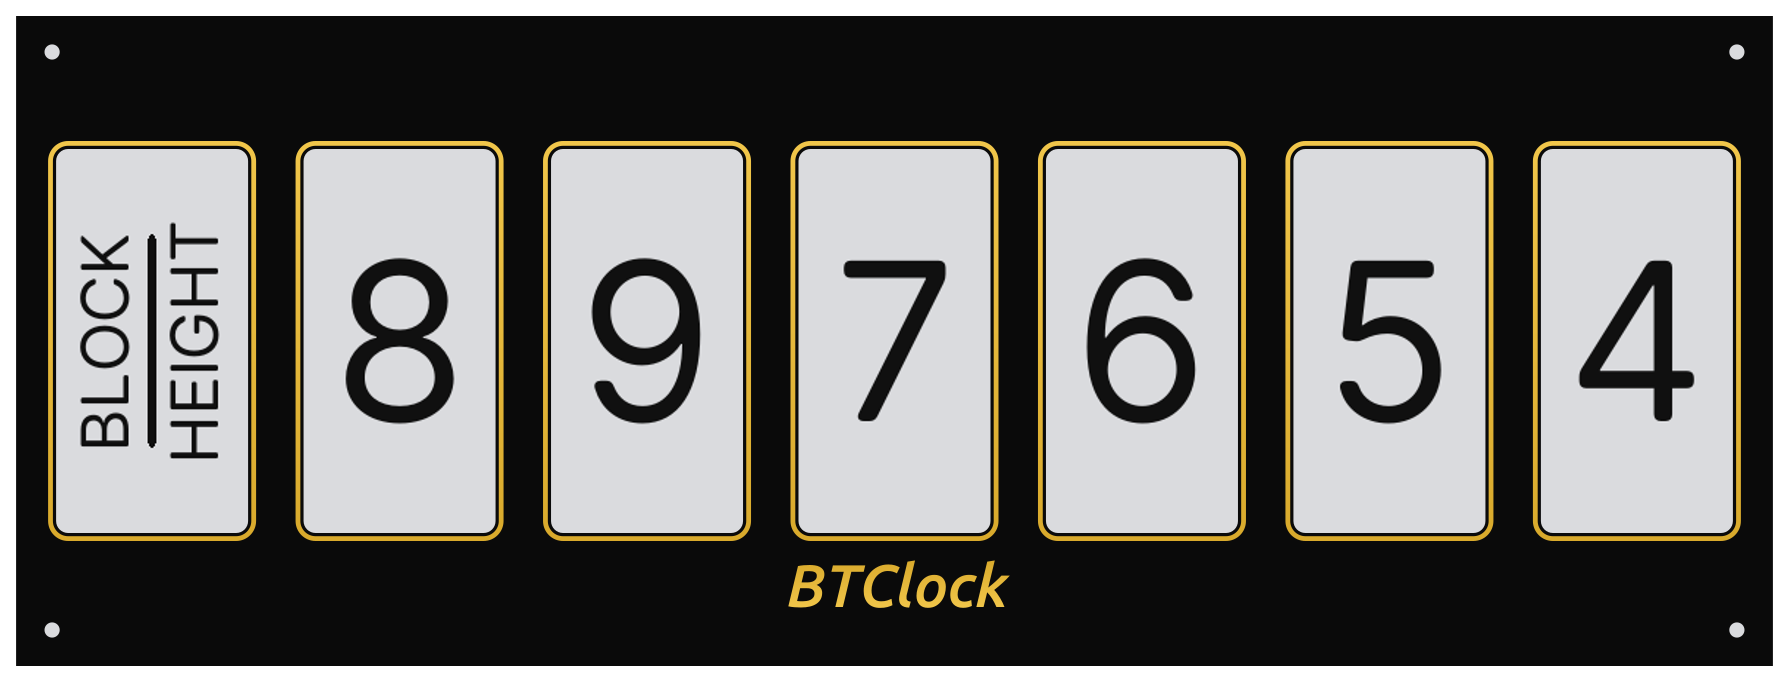
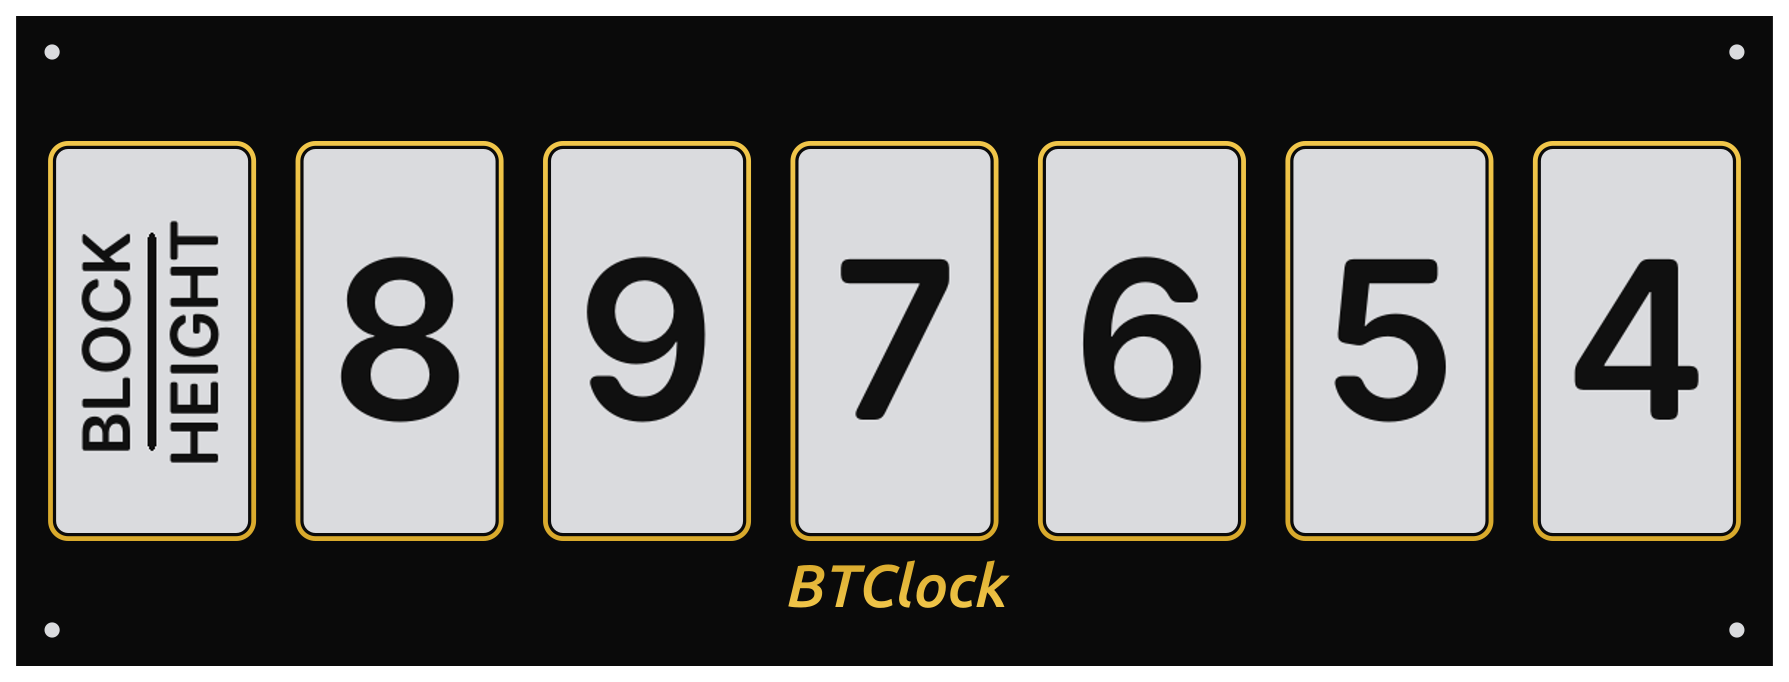
docs(fonts): render and document full availableFonts coverage
Expand the WASM docs font render matrix to include every available font id (including all bold variants), regenerate the manifest/assets, and update the handbook table so documentation coverage matches the runtime settings catalogue.

diff --git a/docs/HANDBOOK.md b/docs/HANDBOOK.md
@@ -850,15 +850,24 @@ table); only the digit / suffix / unit glyphs swap.
 | **Antonio SemiBold** | `antonioSemiBold` | ![antonioSemiBold](img/fonts/antonioSemiBold.png) |
 | **Antonio Bold** | `antonioBold` | ![antonioBold](img/fonts/antonioBold.png) |
 | **Oswald** | `oswald` | ![oswald](img/fonts/oswald.png) |
+| **Oswald Bold** | `oswaldBold` | ![oswaldBold](img/fonts/oswaldBold.png) |
 | **Inter** | `inter` | ![inter](img/fonts/inter.png) |
+| **Inter Bold** | `interBold` | ![interBold](img/fonts/interBold.png) |
 | **Source Serif** | `sourceSerif` | ![sourceSerif](img/fonts/sourceSerif.png) |
+| **Source Serif Bold** | `sourceSerifBold` | ![sourceSerifBold](img/fonts/sourceSerifBold.png) |
 | **Merriweather** | `merriweather` | ![merriweather](img/fonts/merriweather.png) |
+| **Merriweather Bold** | `merriweatherBold` | ![merriweatherBold](img/fonts/merriweatherBold.png) |
 | **Bitter** | `bitter` | ![bitter](img/fonts/bitter.png) |
+| **Bitter Bold** | `bitterBold` | ![bitterBold](img/fonts/bitterBold.png) |
 | **Atkinson Hyperlegible** | `atkinson` | ![atkinson](img/fonts/atkinson.png) |
+| **Atkinson Hyperlegible Bold** | `atkinsonBold` | ![atkinsonBold](img/fonts/atkinsonBold.png) |
 | **Open Runde** | `openRunde` | ![openRunde](img/fonts/openRunde.png) |
 | **Roboto** | `roboto` | ![roboto](img/fonts/roboto.png) |
+| **Roboto Bold** | `robotoBold` | ![robotoBold](img/fonts/robotoBold.png) |
 | **Noto Sans** | `notoSans` | ![notoSans](img/fonts/notoSans.png) |
+| **Noto Sans Bold** | `notoSansBold` | ![notoSansBold](img/fonts/notoSansBold.png) |
 | **Ubuntu** | `ubuntu` | ![ubuntu](img/fonts/ubuntu.png) |
+| **Ubuntu Bold** | `ubuntuBold` | ![ubuntuBold](img/fonts/ubuntuBold.png) |
 
 Antonio is a condensed display sans, designed for tight digit columns
 on the BTClock's narrow 2.13" panels. The three Antonio cuts share the
